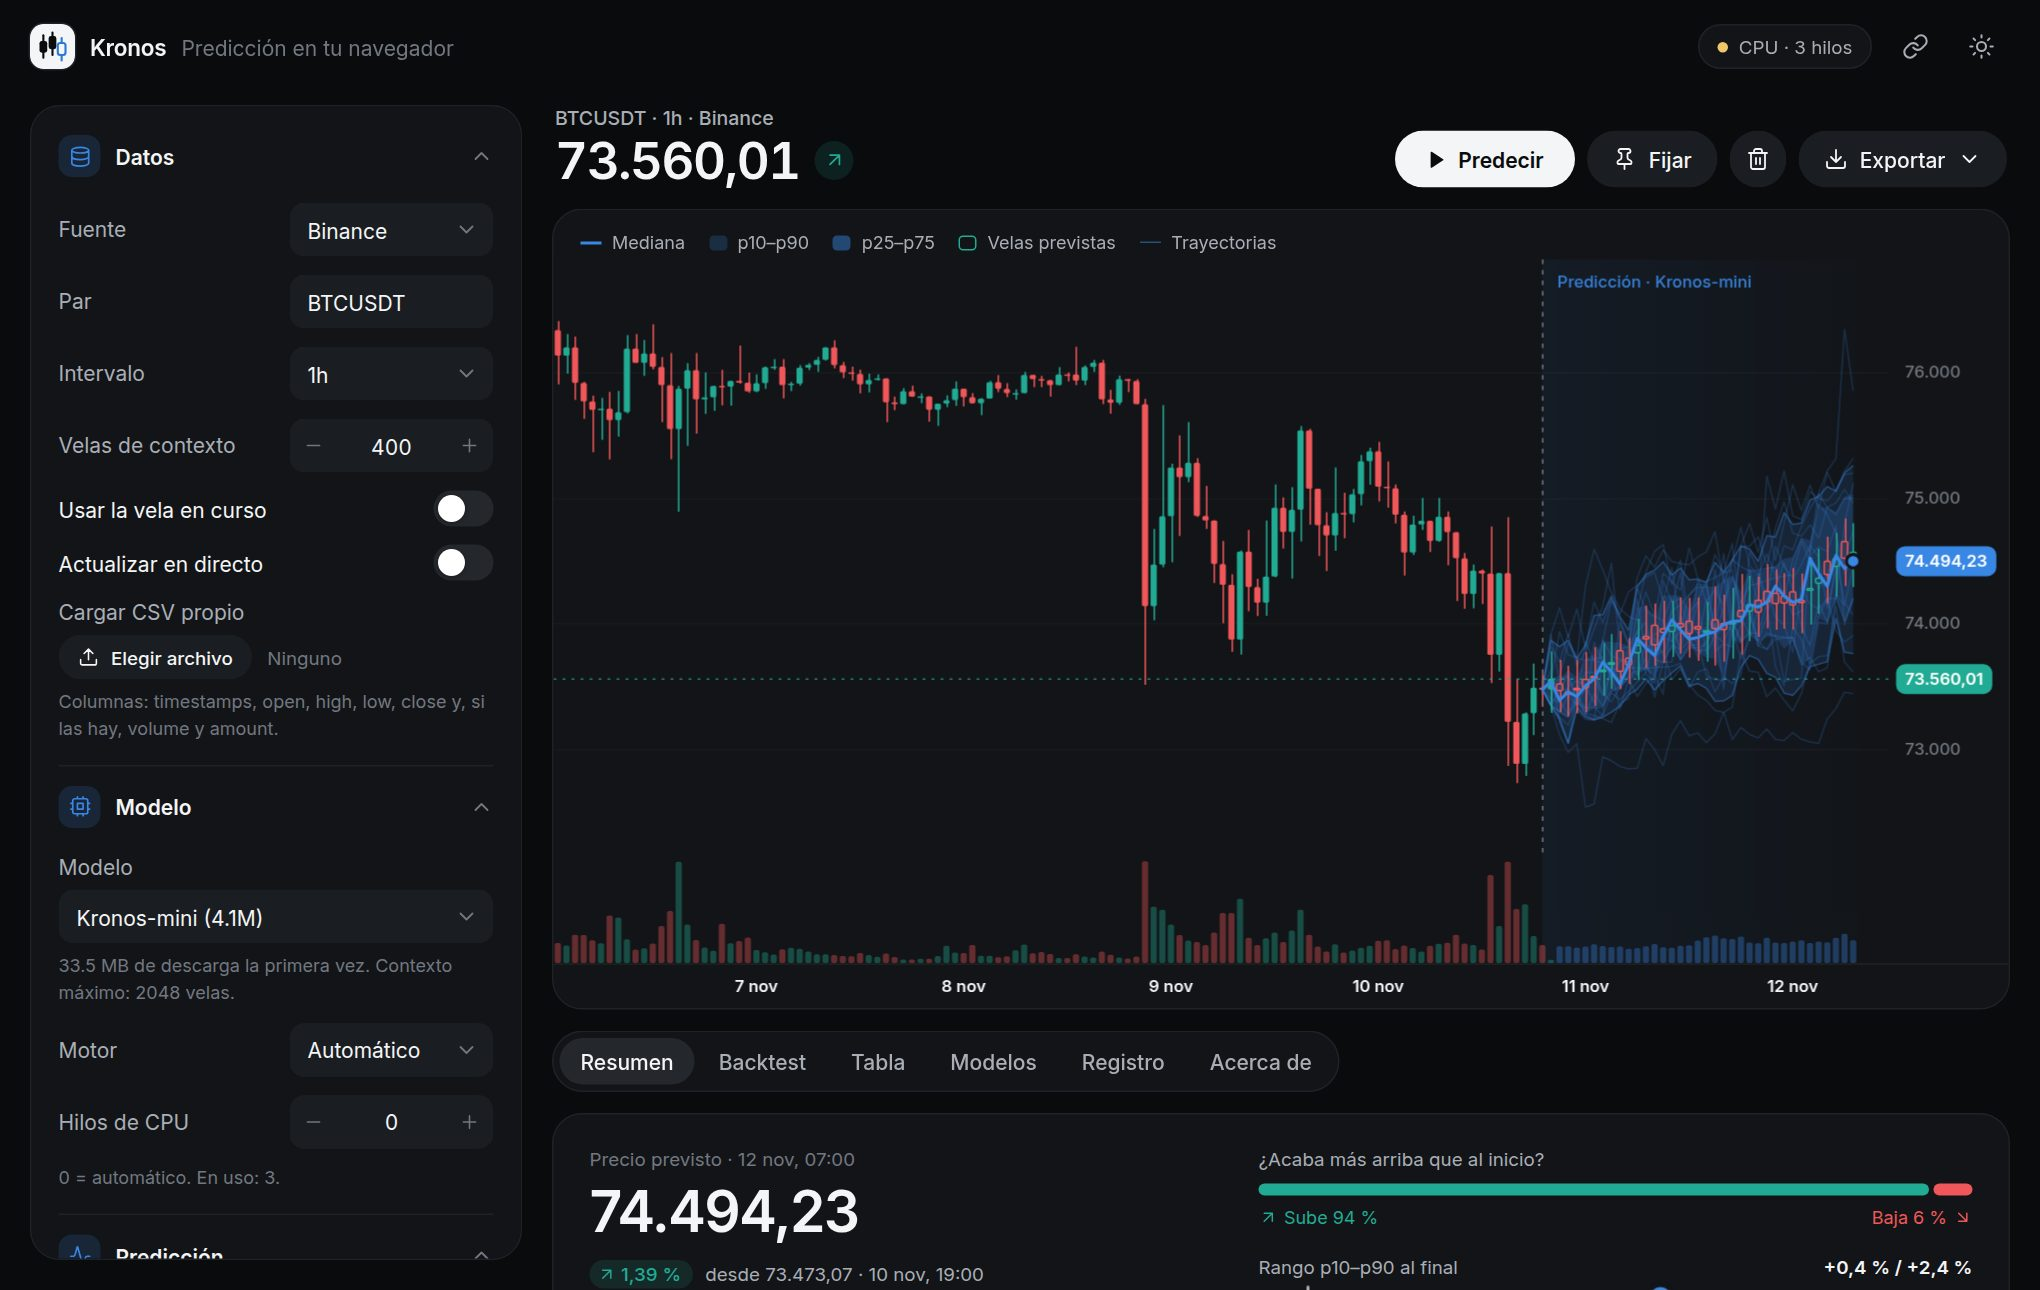
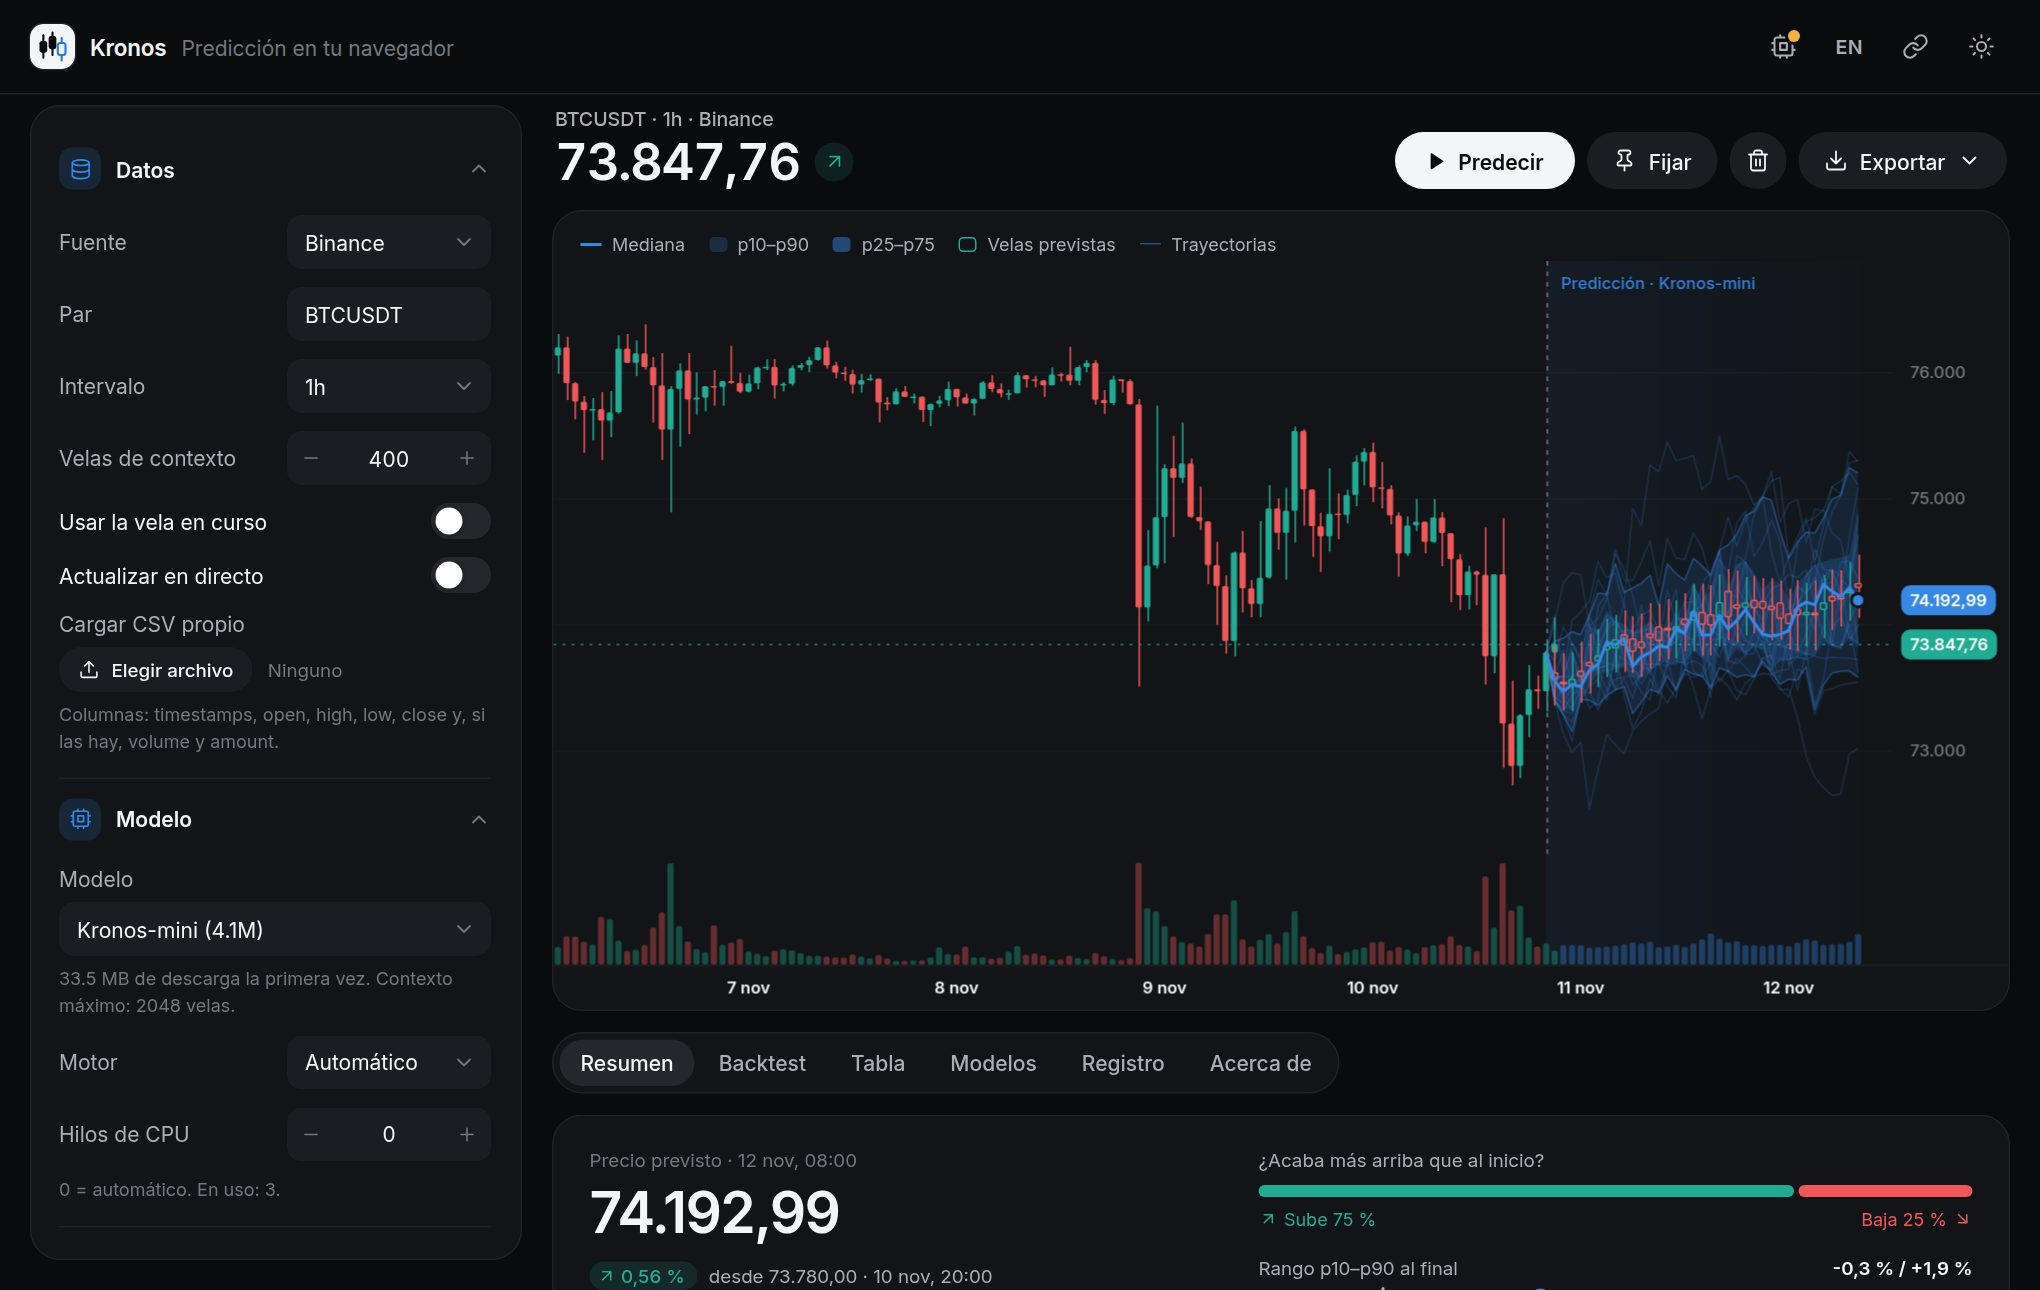
App: show the CPU threads setting only when the CPU engine is in use

diff --git a/src/main.ts b/src/main.ts
@@ -379,6 +379,9 @@ async function onChange(key: keyof Settings): Promise<void> {
 }
 
 function updateHints(): void {
+  // Thread count only means something for the CPU engine: show it only then.
+  const threadsRow = inputs.get('threads')?.closest<HTMLElement>('.field');
+  if (threadsRow) threadsRow.hidden = engine.backend !== 'wasm';
   if (!manifest) return;
   const info = modelInfo();
   const { family } = modelParts();
